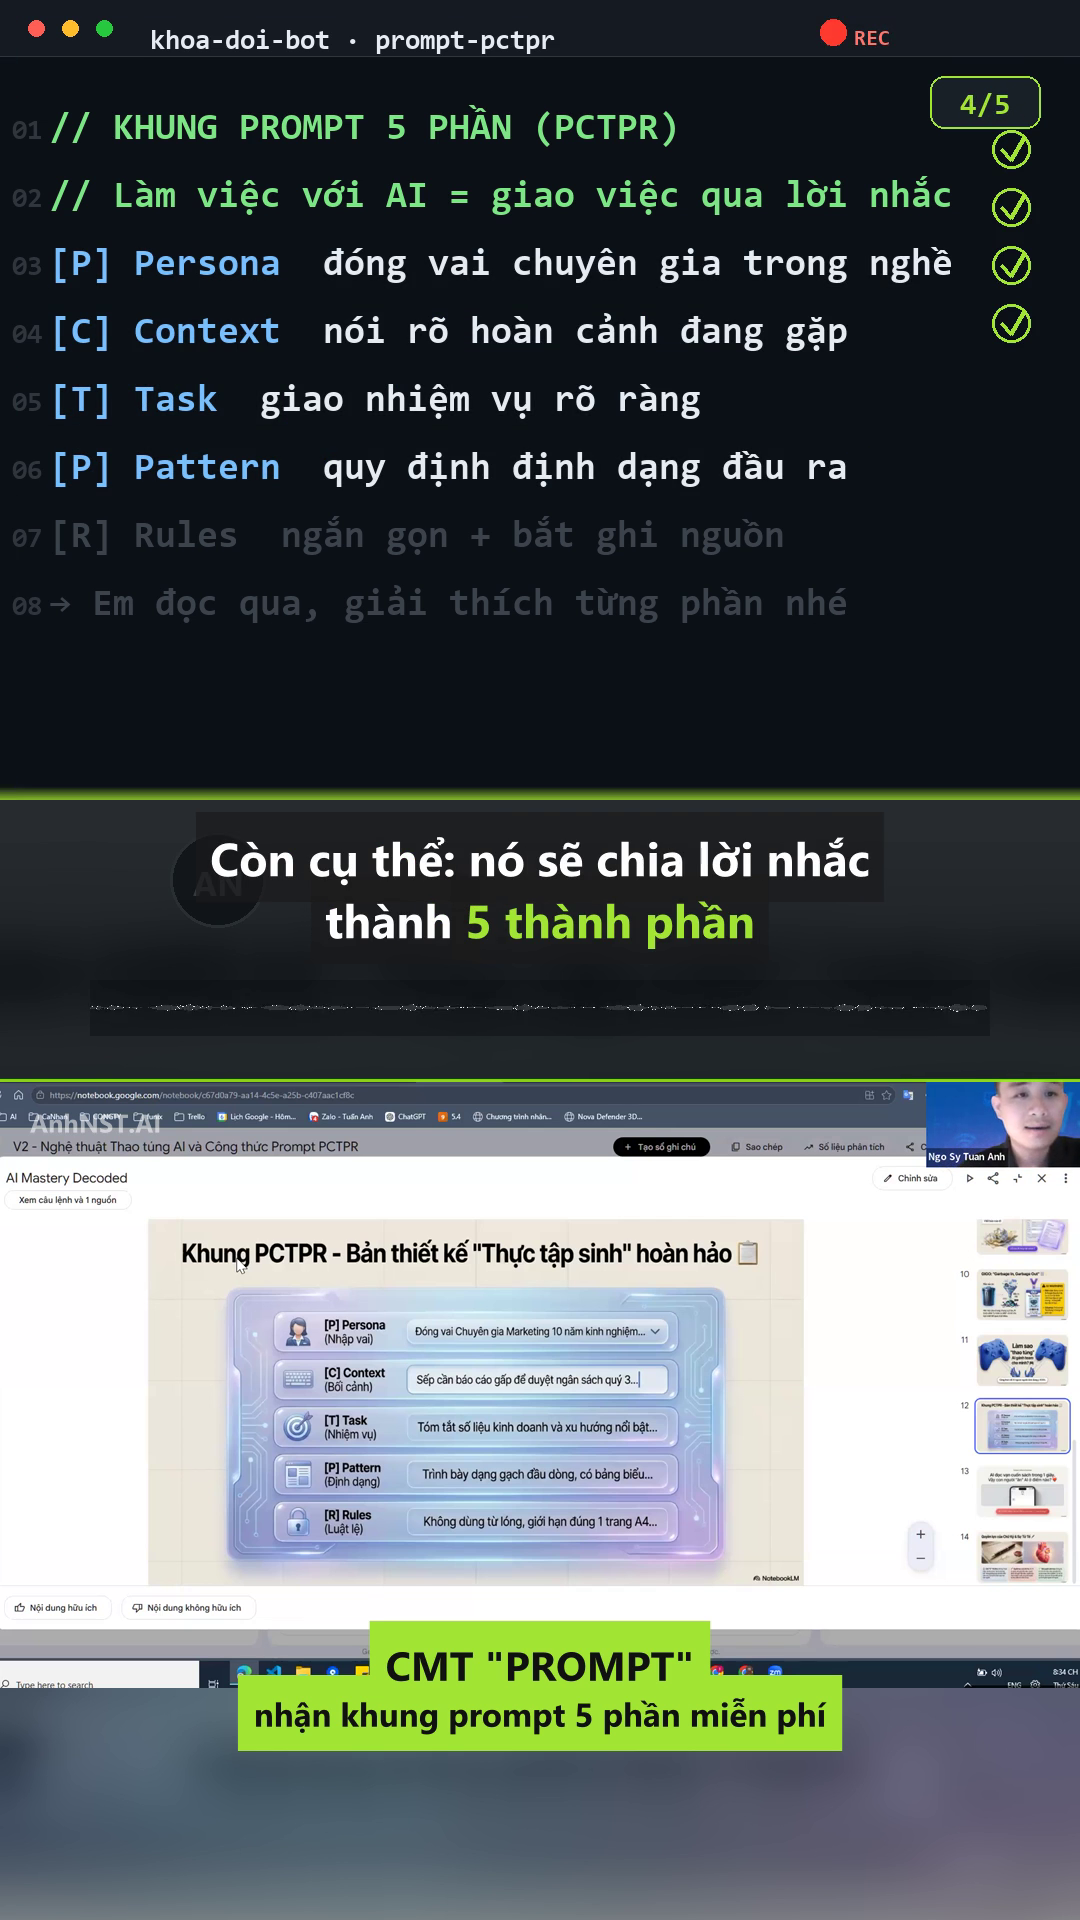
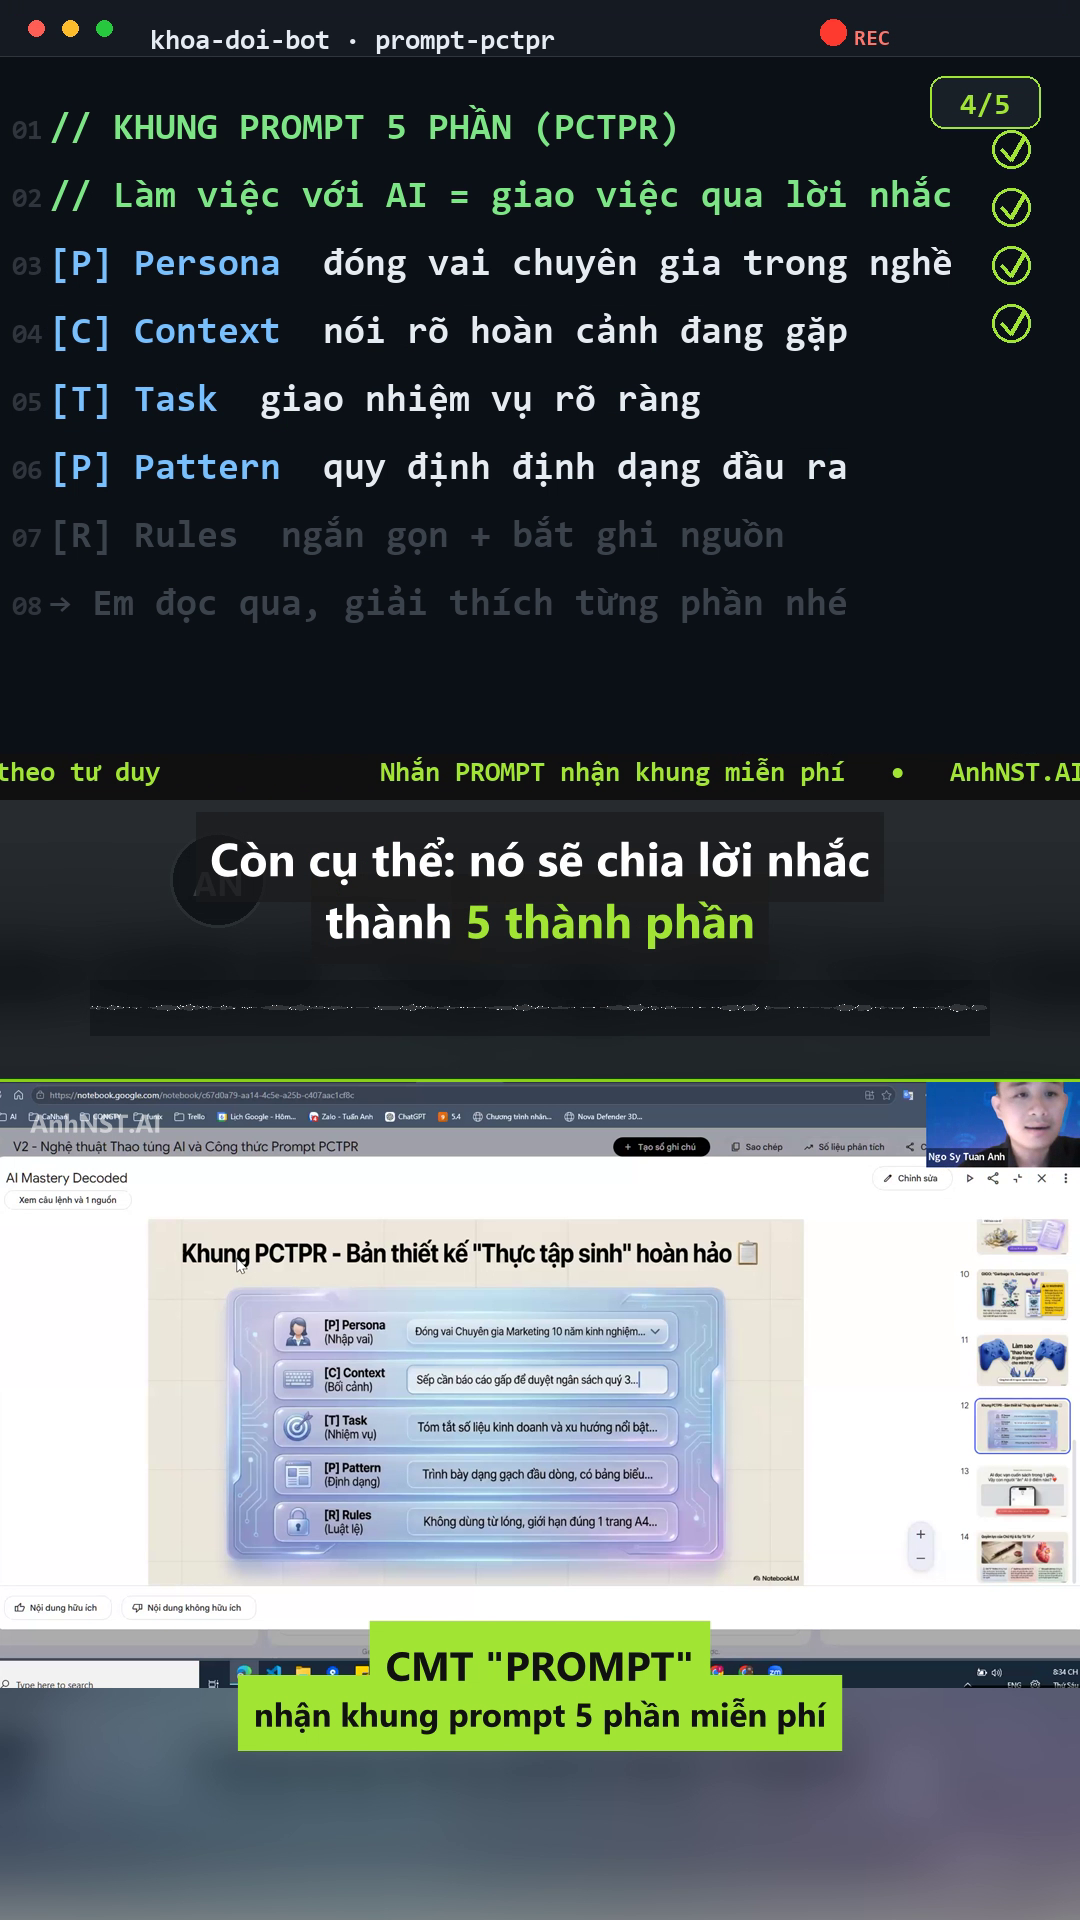
E37 ticker status bar: 298/330 (tag v34) — M33 3->10, bo ASS move chuyen PIL

Changed region(s): [[0.0, 0.375, 1.0, 0.4375]]

diff --git a/render_code_variant.py b/render_code_variant.py
@@ -42,7 +42,7 @@ def font_code(size=CODE_SIZE):
 
 def code_config_hash(v: dict) -> str:
     payload = json.dumps({"tab": v.get("tab"), "lines": v["code_lines"]}, ensure_ascii=False, sort_keys=True)
-    payload += f"|{CODE_FONT}|{CODE_SIZE}|{LINE_H}|{BODY_Y0}|{W}x{H_CODE}|v8-chippop"
+    payload += f"|{CODE_FONT}|{CODE_SIZE}|{LINE_H}|{BODY_Y0}|{W}x{H_CODE}|v9-ticker"
     return hashlib.sha1(payload.encode()).hexdigest()[:12]
 
 
@@ -186,6 +186,15 @@ def render_code_frames(v: dict, out_dir: Path, dur: float, reuse: bool = True):
         cw = d.textlength(chip, font=cf)
         d.text((W - 95 - cw / 2, 106 - cf.size / 2), chip, font=cf, fill=LIME)
 
+        # ticker status bar: dòng chữ lime chạy phải → trái trong dải đáy khung code
+        if v.get("ticker"):
+            bar_y = H_CODE - 40
+            d.rectangle([0, bar_y - 6, W, H_CODE], fill=(16, 16, 16))
+            tick_w = int(d.textlength(v["ticker"], font=tab_f)) + 220
+            x_off = W - (t * 80 % (tick_w + W))
+            d.text((x_off, bar_y), v["ticker"], font=tab_f, fill=LIME)
+            d.text((x_off + tick_w, bar_y), v["ticker"], font=tab_f, fill=LIME)
+
         img.save(out_dir / f"{i:05d}.png")
     meta_path.write_text(json.dumps({"hash": code_config_hash(v), "frames": n}, ensure_ascii=False), encoding="utf-8")
     return n
@@ -206,6 +215,7 @@ Style: Hook,Segoe UI,74,&H0035E6A3,&H00FFFFFF,&H00101010,&H00000000,-1,0,0,0,100
 Style: Outro,Segoe UI,58,&H00FFFFFF,&H00FFFFFF,&H50141414,&H00000000,-1,0,0,0,100,100,0,0,3,12,0,5,60,60,560,1
 Style: WM,Segoe UI,34,&H78FFFFFF,&H78FFFFFF,&H00000000,&H00000000,-1,0,0,0,100,100,0,0,1,0,0,7,30,30,1105,1
 Style: Card,Segoe UI,46,&H00FFFFFF,&H00FFFFFF,&H98142814,&H00000000,-1,0,0,0,100,100,0,0,3,14,0,8,50,50,640,1
+Style: Ticker,Segoe UI,30,&H00A3E6A3,&H00A3E6A3,&H00101010,&H00000000,-1,0,0,0,100,100,0,0,1,2,0,2,0,0,330,1
 
 [Events]
 Format: Layer, Start, End, Style, Name, MarginL, MarginR, MarginV, Effect, Text

diff --git a/diem/diem_log.md b/diem/diem_log.md
@@ -233,6 +233,12 @@ Chấm trên diem/E0_baseline/ (ffprobe: 1080x1920, 50.00s — chuẩn).
 - M32: 2 → 10 (medium 6.2MB, I=-16.2, decode sạch; publish pack = FINAL + srt + poster + meta).
 - Chu kỳ 2 (E31-E36): kenburns-both, A/B hook, tick sfx, mid-card, countdown, final — 6 vòng giữ liên tiếp.
 
+## Chu kỳ 3 (E31-E37, thang v21: 33 mục trần 330)
+
+- E31 244/260 → E32 254/270 → E33 261/280 → E34 269/290 → E35 279/310 (chu kỳ 2, tag v32)
+- E36 289/320 (tag v33) → E37 **298/330** (tag v34): ticker status bar trong khung code
+  (ASS \move không vẽ ổn định → chuyển PIL status bar — chạy chắc chắn, đúng chủ đề terminal)
+
 ## PHIÊN 1 ĐÓNG TẠI ĐÂY (quota zai ~42%)
 
 Best: 97/100 (v8). Tiến trình: 86 → 87 → 90 → (91 fail 90) → 91 → 92 → 93 → 95 → 97.

diff --git a/rubric.md b/rubric.md
@@ -71,3 +71,5 @@ Chấm bằng 3 frame (đầu/giữa/cuối) + ffprobe + review diff. Mỗi mụ
 ## MỞ RỘNG v19 (E35): +M31 countdown 3-2-1 trước outro (trần 310)
 
 ## MỞ RỘNG v20 (E36): +M32 final render + publish pack chu kỳ (trần 320)
+
+## MỞ RỘNG v21 (E37): +M33 ticker status bar trong khung code (trần 330)
